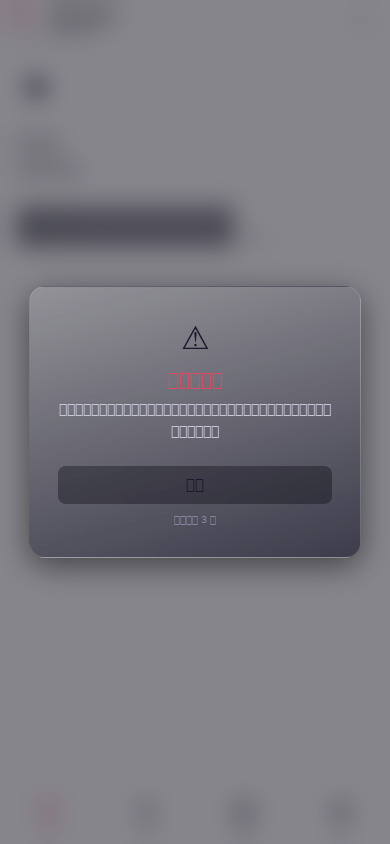
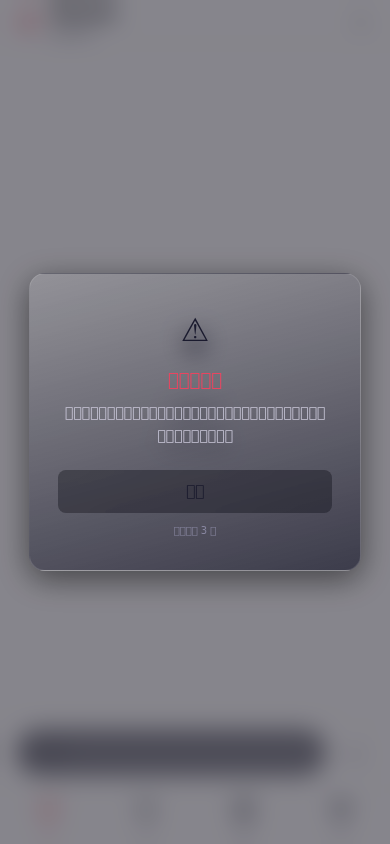
feat: 分支HDR问题

Changed region(s): [[0.0615, 0.3697, 0.9231, 0.6777], [0.0308, 0.2156, 0.6154, 0.3389], [0.0308, 0.8626, 0.8308, 0.9242]]

diff --git a/app/src/ui/App.tsx b/app/src/ui/App.tsx
@@ -1,6 +1,6 @@
 import { useState, useEffect, useRef, useCallback } from 'react'
 import { initApp } from './init'
-import { useSettingsStore, type EyeCareMapping } from './stores'
+import { useSettingsStore, useChatStore, type EyeCareMapping } from './stores'
 import { ChatView } from './chat/ChatView'
 import { SettingsView } from './settings/SettingsView'
 import { PersonaView } from './persona/PersonaView'

diff --git a/app/src/ui/tailwind.css b/app/src/ui/tailwind.css
@@ -1,3 +1,5 @@
+@import "tailwindcss";
+
 /*
  * tailwind.css — 毛玻璃三级性能降级
  *